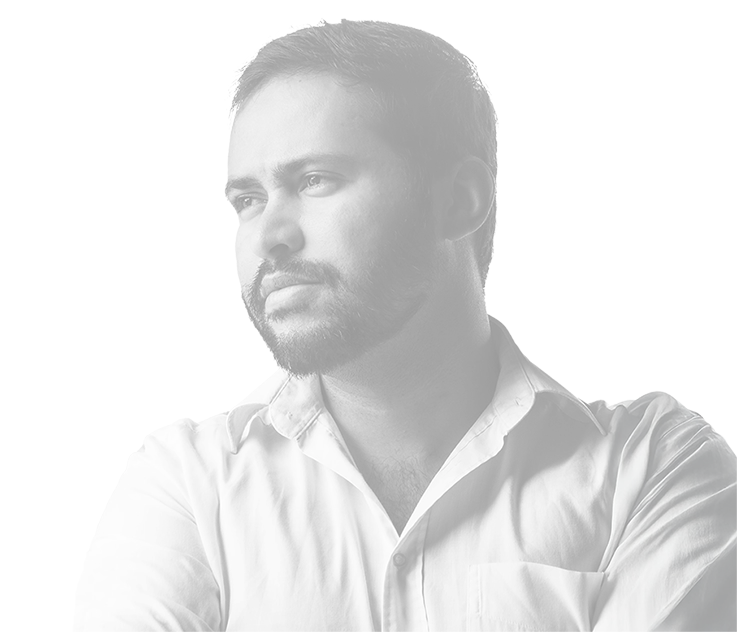
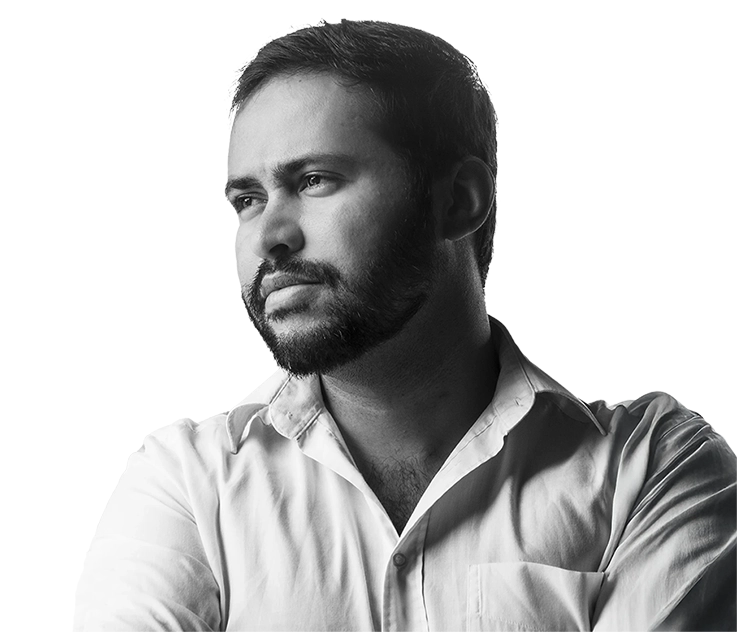
adicionei as Skills

diff --git a/style.css b/style.css
@@ -1,48 +1,46 @@
-
 @charset "UTF-8";
 @import url('https://fonts.googleapis.com/css2?family=Doto:wght@100..900&family=Noto+Sans+JP:wght@100..900&display=swap');
-@import url('https://fonts.googleapis.com/css2?family=Doto:wght@100..900&family=Noto+Sans+JP:wght@100..900&family=Poppins:ital,wght@0,100;0,200;0,300;0,400;0,500;0,600;0,700;0,800;0,900;1,100;1,200;1,300;1,400;1,500;1,600;1,700;1,800;1,900&display=swap');
+@import url('https://fonts.googleapis.com/css2?family=Doto:wght@100..900&family=Noto+Sans+JP:wght@100..900&family=Pacifico&family=Poppins:ital,wght@0,100;0,200;0,300;0,400;0,500;0,600;0,700;0,800;0,900;1,100;1,200;1,300;1,400;1,500;1,600;1,700;1,800;1,900&display=swap');
 
 * {
-  margin: 0;
-  padding: 0;
-  box-sizing: border-box;
-  font-family: "Noto Sans JP", sans-serif;
+    margin: 0;
+    padding: 0;
+    box-sizing: border-box;
+    font-family: "Noto Sans JP", sans-serif;
 }
 
 :root {
-    --cor0: #34353A; 
+    --cor0: #34353A;
     --cor1: #FFC96B;
-    --cor2: white;   
+    --cor2: white;
     --cor3: #818181;
 }
 
 body {
-    min-height: 100vh;
     background-color: var(--cor0);
     color: var(--cor2);
 }
 
-.header{
+.header {
     height: 150px;
     display: flex;
     justify-content: center;
-    align-items: center;  
+    align-items: center;
 }
 
-.logo{
+.logo {
     flex-grow: 1;
     padding: 0 0 0 10px;
-    
+
 }
 
 .logo img {
     width: 100px;
     margin-left: 150px;
-    
+
 }
 
-.navbar a{
+.navbar a {
     text-decoration: none;
     font-size: 1.5rem;
     margin: 0 20px;
@@ -60,18 +58,19 @@ body {
     color: var(--cor3);
     cursor: pointer;
     display: none;
-    
+
 }
 
 .destaque {
-    font-family: "Poppins", sans-serif;
+    font-family: "Pacifico", cursive;
     font-size: 50px;
+    line-height:1.1;
     color: var(--cor1);
 }
 
 .botao {
     padding: 10px 20px 10px 20px;
-    margin-top: 40px;
+    margin-top: 30px;
     font-size: 1.5rem;
     background-color: transparent;
     border: solid var(--cor1);
@@ -96,23 +95,82 @@ body {
 
 }
 
+.home img {
+    opacity: 32%;
 
-.sobre{
-    width: 100%;
-    height: 500px;
-    background-color: aquamarine;
 }
 
 
+.sobre {
+    display: flex;
+    flex-direction: column;
+    padding: 0 200px;
+    width: 100%;
+    height: 100%;
+}
 
+.sobre h2 {
+    font-size: 50px;
+    color: var(--cor2);
+}
+
+.sobre .p {
+    text-align: justify;
+    display: flex;
+    gap: 5px;
+}
+
+#linha {
+    color: var(--cor1);
+    margin-top: -9px;
+}
+
+.skills h2{
+    margin-top: 30px;
+    font-size: 2.5rem;
+}
+
+.skills {
+    width: 100%;
+    height: 100%;
+    text-align: center;
+    
+}
+
+.container {
+   display: flex;
+   flex-direction: row;
+   flex-wrap: wrap;
+   justify-content: center;
+   gap: 15px;
+   margin-bottom: 100px;
+
+}
+
+.container img {
+    width: 60px;
+    height: auto;
+}
+
+.container .imagens {
+    display: flex;
+    flex-direction: column;
+    justify-content: center;
+    width: 130px;
+    height: 130px;
+    background-color: #4b4b4b;
+    border-radius: 15px;
+    text-align: center;
+    align-items: center;
+}
 
 @media (max-width: 853px) {
     .logo img {
         width: 80px;
-        margin-left: 140px;        
+        margin-left: 140px;
     }
 
-    .icons{
+    .icons {
         display: inline-flex;
     }
 
@@ -128,6 +186,10 @@ body {
         display: block;
     }
 
+    .botao {
+        padding: 10px 10px 10px 10px;
+        font-size: 1.2rem;
+    }
 
     .navbar {
         position: absolute;
@@ -137,14 +199,14 @@ body {
         height: 0;
         overflow: hidden;
         transition: .3s ease;
-        
+
     }
 
     #check:checked~.navbar {
         height: 17.7rem;
     }
 
-  
+
     .navbar a {
         display: block;
         margin: 1.3rem;
@@ -158,26 +220,54 @@ body {
         transform: translateY(0);
     }
 
-    .home .texto{
+    .home .texto {
         height: 400px;
         transform: translateX(190px);
         text-align: start;
         padding-left: 10px;
         z-index: 100;
-       
     }
 
-    .home img{
-        transform:translateX(80px);
+    .home img {
+        transform: translateX(80px);
     }
+
+    .sobre {
+        padding: 0 30px;
+        width: 90%;
+    }
+    
 
 }
 
 @media (max-width: 540px) {
-    .home .texto{
+    .home .texto {
         transform: translateX(250px);
     }
-    .home img{ 
-        transform:translateX(40px);
+
+    .home img {
+        transform: translateX(40px);
     }
+    .botao {
+        padding: 3px 30px 3px 30px;
+        margin-top: 40px;
+        font-size: 1.3rem;
+    }
+    .sobre {
+        margin-top: 50px;
+        padding: 0 30px;
+        width: 90%;
+    }
+
+    .destaque {
+        line-height: 1.3;
+    }
+
+    .botao {
+        padding: 10px 10px 10px 10px;
+        font-size: 1.3 rem;
+    }
+    
+  
+
 }

diff --git a/index.html b/index.html
@@ -32,7 +32,7 @@
         <div class="texto">
             <p>
                 Olá! Eu sou <span class="destaque">Tiago Santos</span><br>
-                Desenvolverdor de aplicações Web
+                Desenvolverdor fullstack de aplicações Web!
             </p>
             <button class="botao">Me Contate</button>
         </div>
@@ -40,7 +40,43 @@
         <div class="img-tiago"><img src="img/Cópia de IMG_0133.webp" alt=""></div>
 
     </section>
+
     <section class="sobre">
+
+        <h2>Sobre</h2>
+        <div class="p">
+            <p id="linha">_____</p><p>Sou um desenvolvedor web fullstack apaixonado por transformar ideias em soluções digitais. Com habilidades em front-end e back-end, <span style="color: var(--cor1);">crio aplicações modernas e responsivas que proporcionam experiências incríveis aos usuários.</span> Adoro desafios e estou sempre em busca de novas tecnologias para entregar projetos eficientes e inovadores.</p>
+        </div>
+
+    </section>
+ 
+    <section class="skills">
+
+         <h2>Minhas Skills</h2>
+
+         <div class="container">
+
+            <div class="imagens"><img src="img/image1.webp" alt=""> <p>HTML E CSS</p>
+
+            </div>
+            <div class="imagens"><img src="img/image2.webp" alt=""> <p>HTML E CSS</p>
+
+            </div>
+
+            <div class="imagens"><img src="img/image3.webp" alt=""> <p>HTML E CSS</p>
+
+            </div>
+            <div class="imagens"><img src="img/image4.webp" alt=""> <p>HTML E CSS</p>
+
+            </div>
+            <div class="imagens"><img src="img/image5.webp" alt=""> <p>HTML E CSS</p>
+
+            </div>
+            <div class="imagens"><img src="img/image6.webp" alt=""> <p>HTML E CSS</p>
+
+            </div>
+                        
+         </div>
 
     </section>
 

diff --git a/indexteste.html b/indexteste.html
@@ -1,0 +1,50 @@
+<!DOCTYPE html>
+<html lang="en">
+<head>
+    <meta charset="UTF-8">
+    <meta name="viewport" content="width=device-width, initial-scale=1.0">
+    <title>Textura de Ruído</title>
+    <style>
+        body {
+            margin: 0;
+            padding: 0;
+            font-family: Arial, sans-serif;
+            background-color: #f0f0f0; /* Cor de fundo */
+            position: relative;
+        }
+
+        /* Aplicando textura de ruído */
+        body::before {
+            content: '';
+            position: fixed;
+            top: 0;
+            left: 0;
+            width: 100%;
+            height: 100%;
+            pointer-events: none; /* Permite interação com elementos abaixo */
+            background-image: url('https://images.pexels.com/photos/6587323/pexels-photo-6587323.jpeg?auto=compress&cs=tinysrgb&w=1260&h=750&dpr=1');
+            opacity: 0.2; /* Ajuste a opacidade do ruído */
+            z-index: 10;
+        }
+
+        /* Exemplo de conteúdo */
+        .container {
+            max-width: 800px;
+            margin: 100px auto;
+            padding: 20px;
+            background-color: white;
+            box-shadow: 0 4px 8px rgba(0, 0, 0, 0.1);
+            border-radius: 8px;
+            text-align: center;
+        }
+    </style>
+</head>
+<body>
+
+    <div class="container">
+        <h1>Bem-vindo!</h1>
+        <p>Este é um exemplo de textura de ruído aplicada em toda a página.</p>
+    </div>
+
+</body>
+</html>
